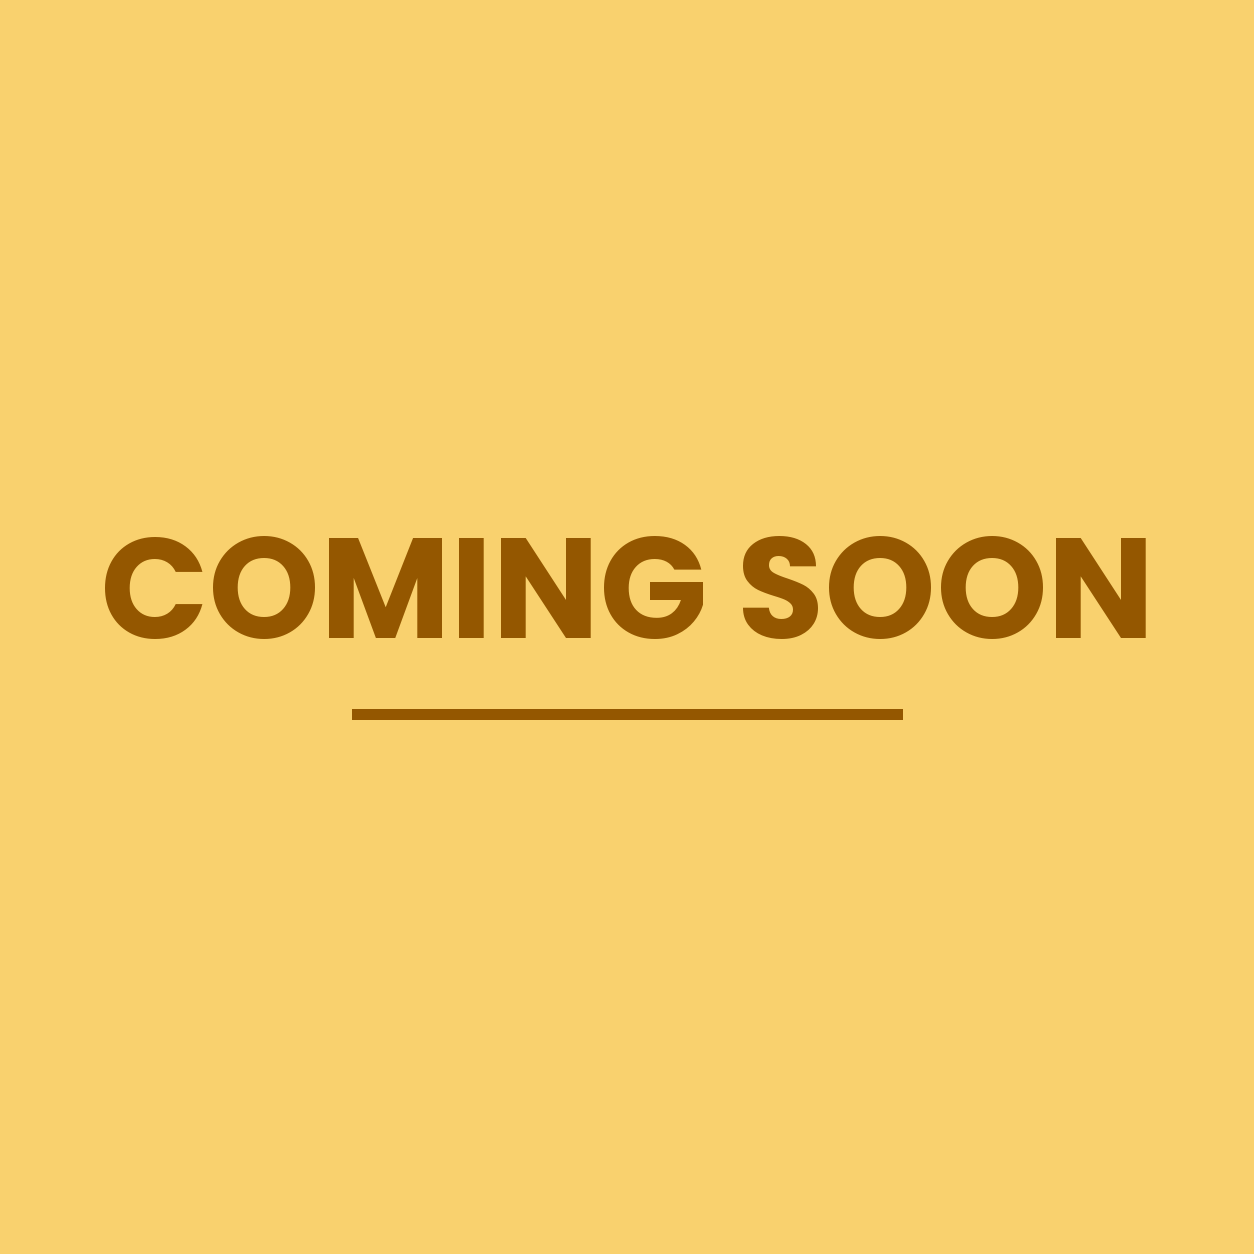
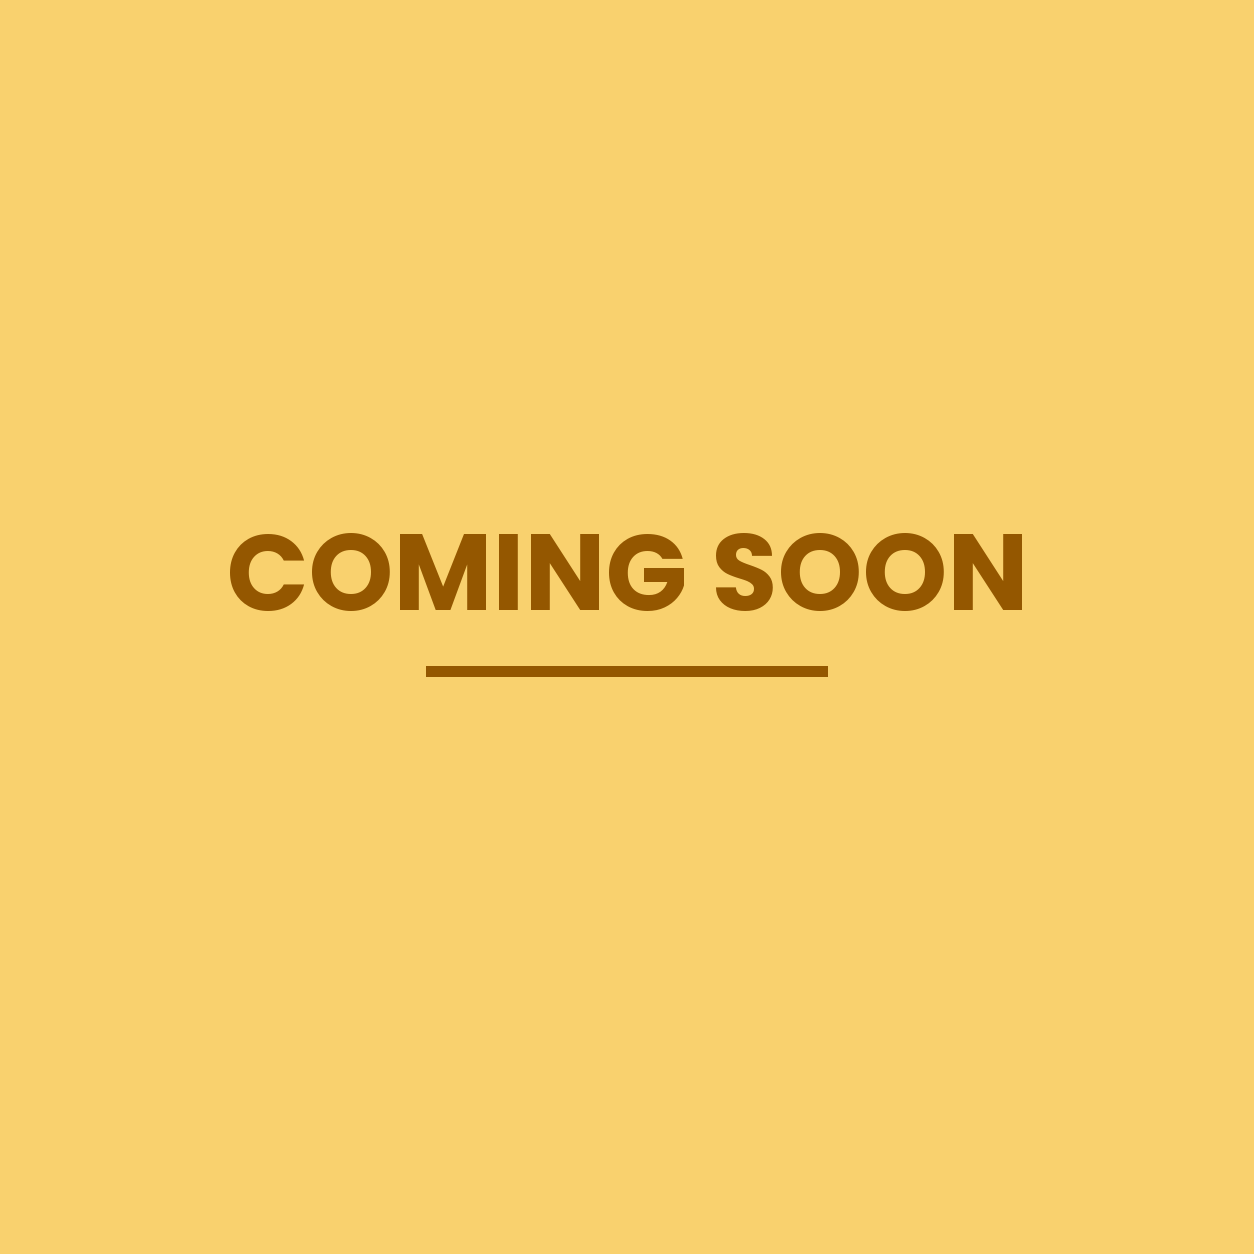
Portfolio: back to the three-card grid; Coming Soon image text narrower so it survives the crop
Claude-Session: https://claude.ai/code/session_01DzUE3prR6UVUTbacv2NxVD

Changed region(s): [[0.0622, 0.4043, 0.933, 0.5909]]

diff --git a/src/components/Portfolio/index.js b/src/components/Portfolio/index.js
@@ -3,23 +3,8 @@ import PageLoader from "../PageLoader";
 import "./index.scss";
 import AnimatedLetters from "../AnimatedLetters";
 import portfolioData from "../../data/portfolio.json";
-import PortfolioRing from "./PortfolioRing";
-
-// the ring needs a mouse and some width; phones and tablets keep the plain grid
-const useRingMode = () => {
-    const query = '(min-width: 1001px) and (hover: hover)'
-    const [on, setOn] = useState(() => window.matchMedia(query).matches)
-    useEffect(() => {
-        const mq = window.matchMedia(query)
-        const f = () => setOn(mq.matches)
-        mq.addEventListener('change', f)
-        return () => mq.removeEventListener('change', f)
-    }, [])
-    return on
-}
 
 const Portfolio = () => {
-    const ringMode = useRingMode()
     const [letterClass, setLetterClass] = useState('text-animate');
     console.log(portfolioData);
 
@@ -61,7 +46,7 @@ const Portfolio = () => {
                 <h1 className = "page-title">
                     <AnimatedLetters letterClass = {letterClass} strArray={"Portfolio".split("")} idx={15}/>
                 </h1>
-                <div>{ringMode ? <PortfolioRing items={portfolioData.portfolio} /> : renderPortfolio(portfolioData.portfolio)}</div>
+                <div>{renderPortfolio(portfolioData.portfolio)}</div>
             </div>
             <PageLoader />
         </>
